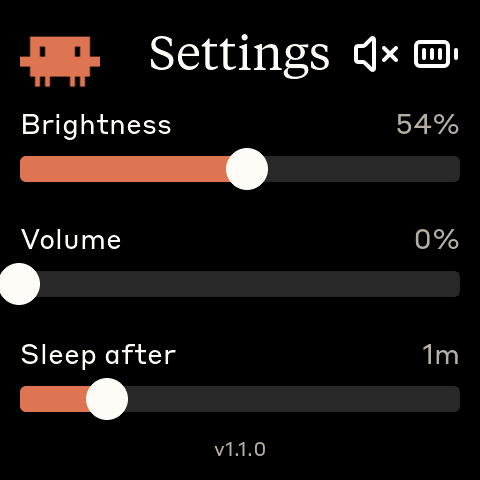
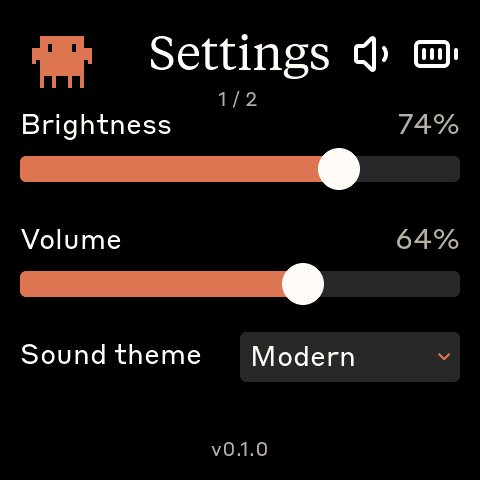
docs: add Sessions screenshot, refresh Settings screenshot, link in README
- sessions.png: new multi-session dashboard (captured live on the C6)
- settings.png: refreshed to show the sound-theme picker
- README screens grid now includes the Sessions screen

diff --git a/README.md b/README.md
@@ -85,10 +85,15 @@ sorted attention-first.
 |      ![Usage](screenshots/usage.png)      |      ![Clock](screenshots/clock.png)       |
 | 5h + weekly utilization, live status line | Wall-clock, date, battery (swipe to reach) |
 
-|                      Settings                      |                Approval                 |
-| :------------------------------------------------: | :-------------------------------------: |
-|       ![Settings](screenshots/settings.png)        |  ![Approval](screenshots/approval.png)  |
-| Brightness / volume / theme / sleep (tap the logo) | Mirrors a Claude Code permission prompt |
+|                    Sessions                    |                      Settings                      |
+| :--------------------------------------------: | :------------------------------------------------: |
+|      ![Sessions](screenshots/sessions.png)     |       ![Settings](screenshots/settings.png)        |
+| Live sessions, one row per project + state dot | Brightness / volume / theme / sleep (tap the logo) |
+
+|                Approval                 |
+| :-------------------------------------: |
+|  ![Approval](screenshots/approval.png)  |
+| Mirrors a Claude Code permission prompt |
 
 When the device has no fresh data it shows an idle sleeping-Clawd animation; while disconnected
 it shows a pairing hint (**hold the BOOT button for 3 seconds, then release, to enter pairing